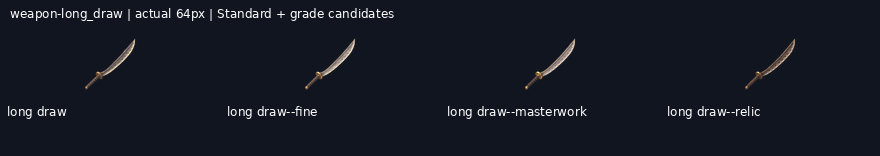
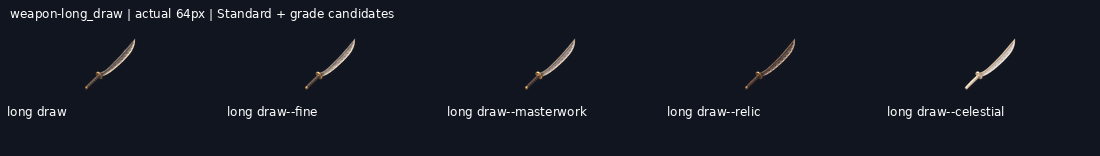
Deliver weapon-long_draw--celestial review candidate with native provenance and exports

diff --git a/art/_archive/gear/2026-11-21-retry-continuation/HANDOFF.md b/art/_archive/gear/2026-11-21-retry-continuation/HANDOFF.md
@@ -1,13 +1,13 @@
 # Reset continuation progress
 
-Branch: `art/2026-11-20-reset-continuation`. New deliveries: 7/26.
+Branch: `art/2026-11-20-reset-continuation`. New deliveries: 8/26.
 
 Shared coordination: https://github.com/leonpentastorm/Project-Heaven-Cry/issues/3 . Read START-HERE.md before extending this queue.
 
 All new entries remain review-candidate; production_approved:false and implementation_ready:false. Exact-outline review remains pending.
 
-Ready jobs: weapon-purifier_flamer--masterwork, weapon-dock_cutter--masterwork, weapon-kemizuchi_side_sword--masterwork, weapon-ork_cleaver_glaive--masterwork, weapon-broadback_sabre--relic, weapon-hellraiser_rotary--celestial, weapon-long_draw--celestial.
+Ready jobs: weapon-purifier_flamer--masterwork, weapon-dock_cutter--masterwork, weapon-kemizuchi_side_sword--masterwork, weapon-ork_cleaver_glaive--masterwork, weapon-broadback_sabre--relic, weapon-hellraiser_rotary--celestial.
 
-Pending jobs: weapon-purifier_flamer--masterwork, weapon-dock_cutter--masterwork, weapon-short_draw--masterwork, weapon-kemizuchi_side_sword--masterwork, weapon-ork_cleaver_glaive--masterwork, weapon-purifier_flamer--relic, weapon-dock_cutter--relic, weapon-broadback_sabre--relic, weapon-short_draw--relic, weapon-kemizuchi_side_sword--relic, weapon-ork_cleaver_glaive--relic, weapon-hellraiser_rotary--celestial, weapon-purifier_flamer--celestial, weapon-dock_cutter--celestial, weapon-broadback_sabre--celestial, weapon-short_draw--celestial, weapon-long_draw--celestial, weapon-kemizuchi_side_sword--celestial, weapon-ork_cleaver_glaive--celestial.
+Pending jobs: weapon-purifier_flamer--masterwork, weapon-dock_cutter--masterwork, weapon-short_draw--masterwork, weapon-kemizuchi_side_sword--masterwork, weapon-ork_cleaver_glaive--masterwork, weapon-purifier_flamer--relic, weapon-dock_cutter--relic, weapon-broadback_sabre--relic, weapon-short_draw--relic, weapon-kemizuchi_side_sword--relic, weapon-ork_cleaver_glaive--relic, weapon-hellraiser_rotary--celestial, weapon-purifier_flamer--celestial, weapon-dock_cutter--celestial, weapon-broadback_sabre--celestial, weapon-short_draw--celestial, weapon-kemizuchi_side_sword--celestial, weapon-ork_cleaver_glaive--celestial.
 
 Quota state: null.

diff --git a/art/briefs/prompts-2026-11-19/PRODUCTION-STATUS.md b/art/briefs/prompts-2026-11-19/PRODUCTION-STATUS.md
@@ -1,12 +1,12 @@
 # Current sole-artist production
 
-**519/871 (59.6%) selected review candidates.** Last delivery: `weapon-long_draw--relic`. Imports, exports, components, rejected attempts and archived alternatives add0. Artistic/implementation approvals remainfalse.
+**520/871 (59.7%) selected review candidates.** Last delivery: `weapon-long_draw--celestial`. Imports, exports, components, rejected attempts and archived alternatives add0. Artistic/implementation approvals remainfalse.
 
 | Requested work | Selected | Total |
 | --- | ---: | ---: |
 | icons_tiles | 87 | 88 |
 | new_repaint_standards | 53 | 104 |
-| grades | 365 | 656 |
+| grades | 366 | 656 |
 | uniques | 14 | 23 |
 
 Active run sole-20261121-0109, branch art/2026-11-20-reset-continuation. Shared live ledger: https://github.com/leonpentastorm/Project-Heaven-Cry/issues/3 . Current renewed grade lane: art/_archive/gear/2026-11-21-retry-continuation/START-HERE.md. All earlier512 candidate drawings were integrated before this lane; native bytes, cleaned imports, source metadata and all prior failures preserved.

diff --git a/art/_archive/gear/2026-11-20-reset-continuation/START-HERE.md b/art/_archive/gear/2026-11-20-reset-continuation/START-HERE.md
@@ -1,6 +1,6 @@
 # Current21November continuation
 
-519/871 selected. Active lane art/_archive/gear/2026-11-21-retry-continuation/START-HERE.md, run sole-20261121-0109. User explicitly authorized renewed fictional-art attempts; all priorart/errors preserved. Read liveissue3+allcomments and remote deliveries before everyrender. RunningScript completed with original marks unchanged. All approvalsfalse;0.30 holdsremain. See PRODUCTION-STATUS.md and REMAINING-WORK.json for the latest exact count.
+520/871 selected. Active lane art/_archive/gear/2026-11-21-retry-continuation/START-HERE.md, run sole-20261121-0109. User explicitly authorized renewed fictional-art attempts; all priorart/errors preserved. Read liveissue3+allcomments and remote deliveries before everyrender. RunningScript completed with original marks unchanged. All approvalsfalse;0.30 holdsremain. See PRODUCTION-STATUS.md and REMAINING-WORK.json for the latest exact count.
 
 # Historical20November handoff
 
